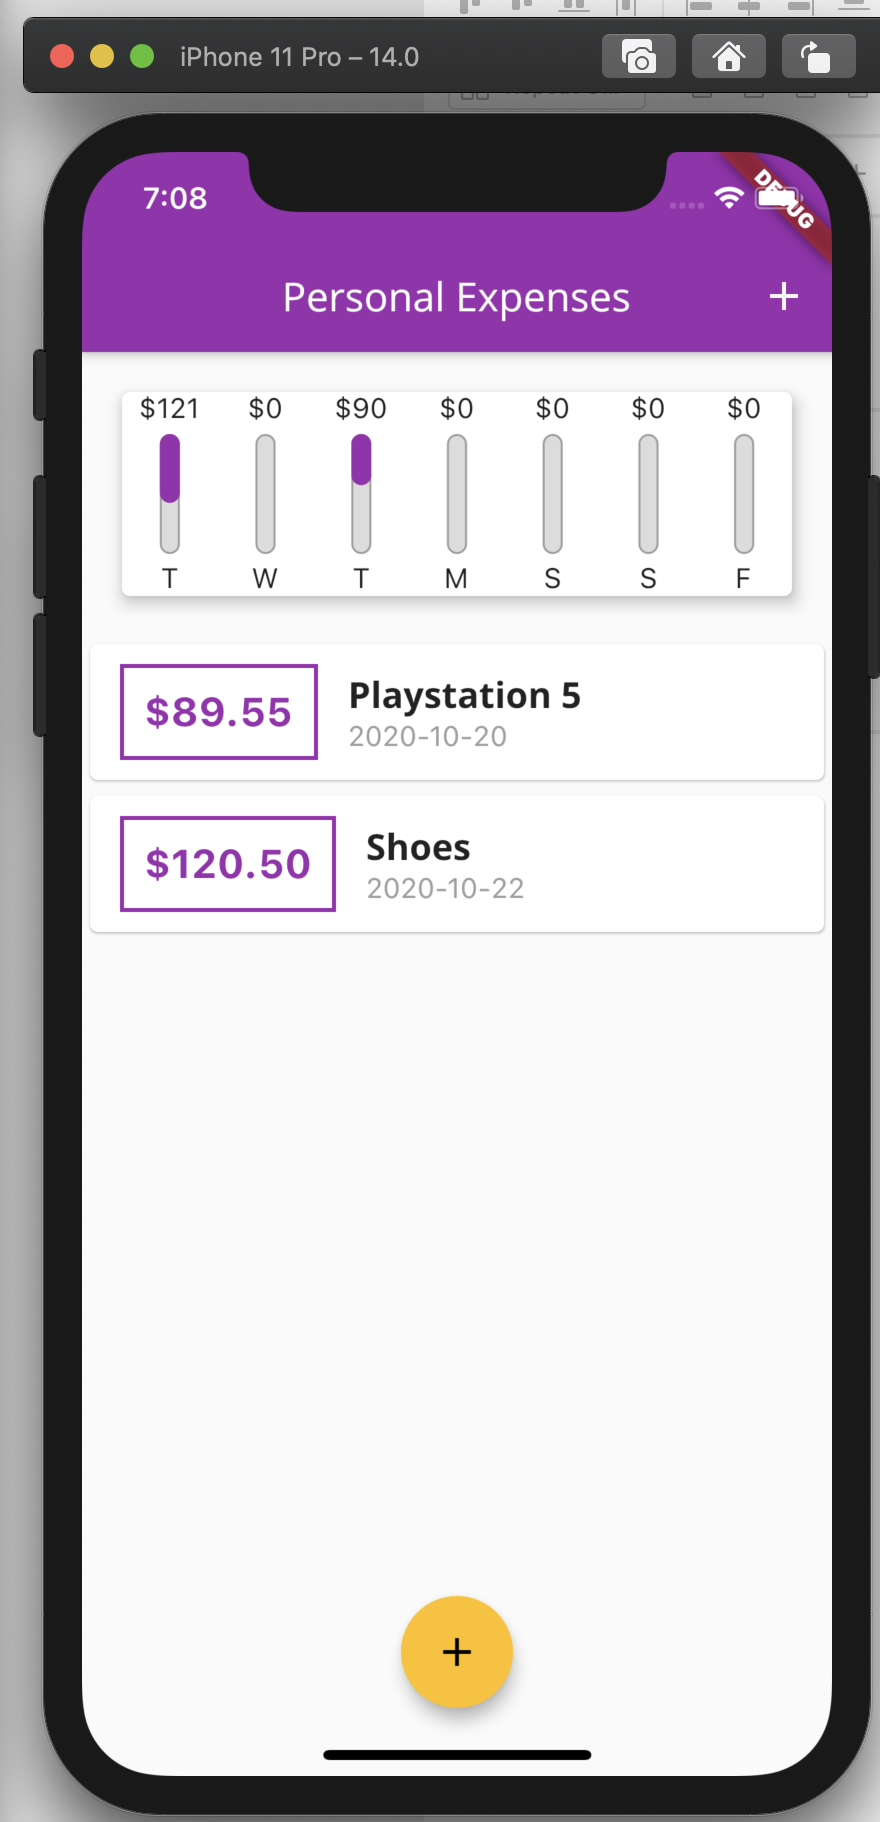
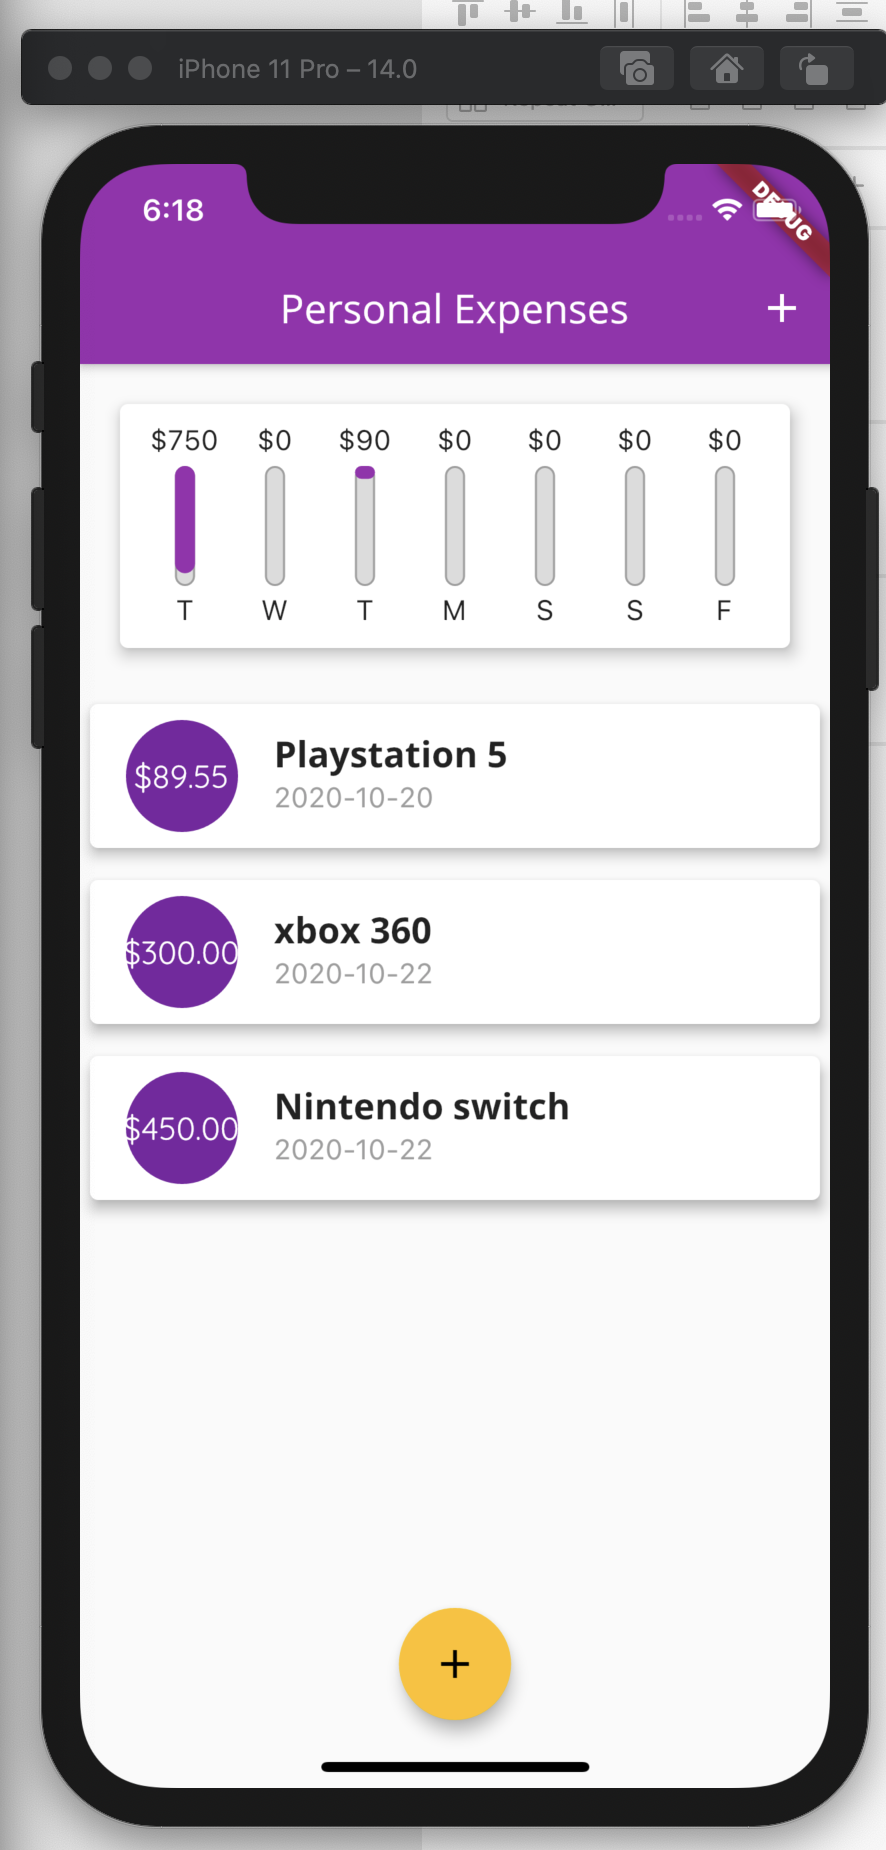
changes to listtile and use flexbox

diff --git a/lib/widgets/transaction_list.dart b/lib/widgets/transaction_list.dart
@@ -32,43 +32,29 @@ class TransactionList extends StatelessWidget {
           : ListView.builder(
               itemBuilder: (ctx, index) {
                 return Card(
-                    child: Row(
-                  children: [
-                    Container(
-                      margin:
-                          EdgeInsets.symmetric(vertical: 10, horizontal: 15),
-                      decoration: BoxDecoration(
-                          border: Border.all(
-                        color: Theme.of(context).primaryColor, //Colors.purple,
-                        width: 2,
-                      )),
-                      padding: EdgeInsets.all(10),
-                      child: Text(
-                        '\$${transactions[index].amount.toStringAsFixed(2)}',
-                        style: TextStyle(
-                            fontWeight: FontWeight.bold,
-                            fontSize: 20,
-                            color: Theme.of(context).primaryColor),
+                  elevation: 5,
+                  margin: EdgeInsets.symmetric(vertical: 8, horizontal: 5),
+                  child: ListTile(
+                    leading: CircleAvatar(
+                      radius: 30,
+                      child: FittedBox(
+                        child: Text(
+                          '\$${transactions[index].amount.toStringAsFixed(2)}',
+                        ),
                       ),
                     ),
-                    Column(
-                      crossAxisAlignment: CrossAxisAlignment.start,
-                      children: [
-                        Text(
-                          transactions[index].title,
-                          style: Theme.of(context)
-                              .textTheme
-                              .title, //TextStyle(fontSize: 16, fontWeight: FontWeight.bold),
-                        ),
-                        Text(
-                          DateFormat('yyyy-MM-dd')
-                              .format(transactions[index].date),
-                          style: TextStyle(color: Colors.grey),
-                        )
-                      ],
-                    )
-                  ],
-                ));
+                    title: Text(
+                      transactions[index].title,
+                      style: Theme.of(context)
+                          .textTheme
+                          .title, //TextStyle(fontSize: 16, fontWeight: FontWeight.bold),
+                    ),
+                    subtitle: Text(
+                      DateFormat('yyyy-MM-dd').format(transactions[index].date),
+                      style: TextStyle(color: Colors.grey),
+                    ),
+                  ),
+                );
               },
               itemCount: transactions.length,
             ),

diff --git a/lib/widgets/chart.dart b/lib/widgets/chart.dart
@@ -42,19 +42,23 @@ class Chart extends StatelessWidget {
     return Card(
         elevation: 6,
         margin: EdgeInsets.all(20),
-        child: Row(
-            mainAxisAlignment: MainAxisAlignment.spaceBetween,
-            children: groupedTransactionValues
-                .map((e) => Flexible(
-                      fit: FlexFit.tight,
-                      child: ChartBar(
-                        e['day'],
-                        e['amount'],
-                        totalSpending == 0.0
-                            ? 0.0
-                            : (e['amount'] as double) / totalSpending,
-                      ),
-                    ))
-                .toList()));
+        child: Container(
+          //margin: EdgeInsets.only(top: 10, bottom: 10),
+          padding: EdgeInsets.all(10),
+          child: Row(
+              mainAxisAlignment: MainAxisAlignment.spaceBetween,
+              children: groupedTransactionValues
+                  .map((e) => Flexible(
+                        fit: FlexFit.tight,
+                        child: ChartBar(
+                          e['day'],
+                          e['amount'],
+                          totalSpending == 0.0
+                              ? 0.0
+                              : (e['amount'] as double) / totalSpending,
+                        ),
+                      ))
+                  .toList()),
+        ));
   }
 }
